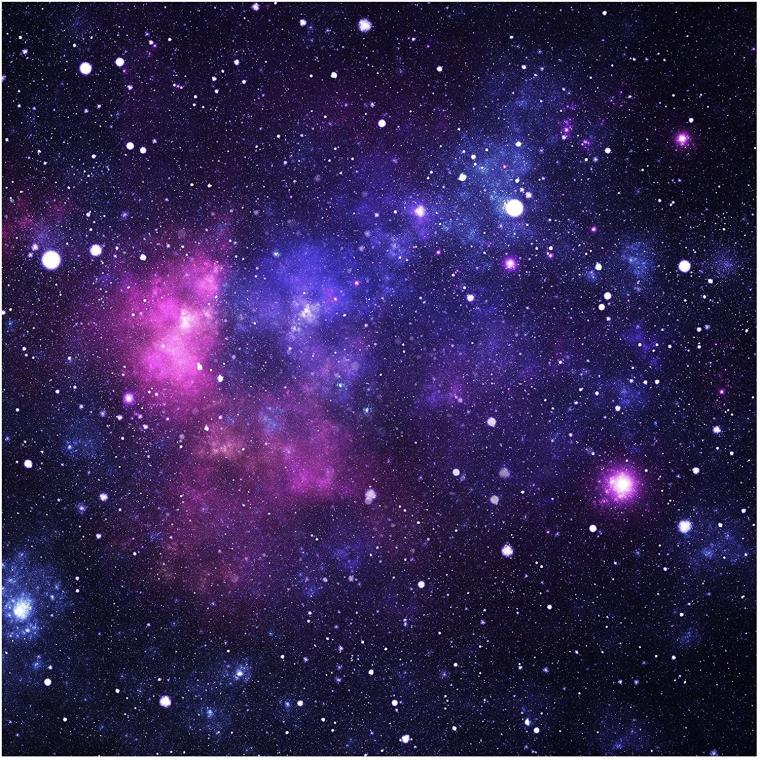
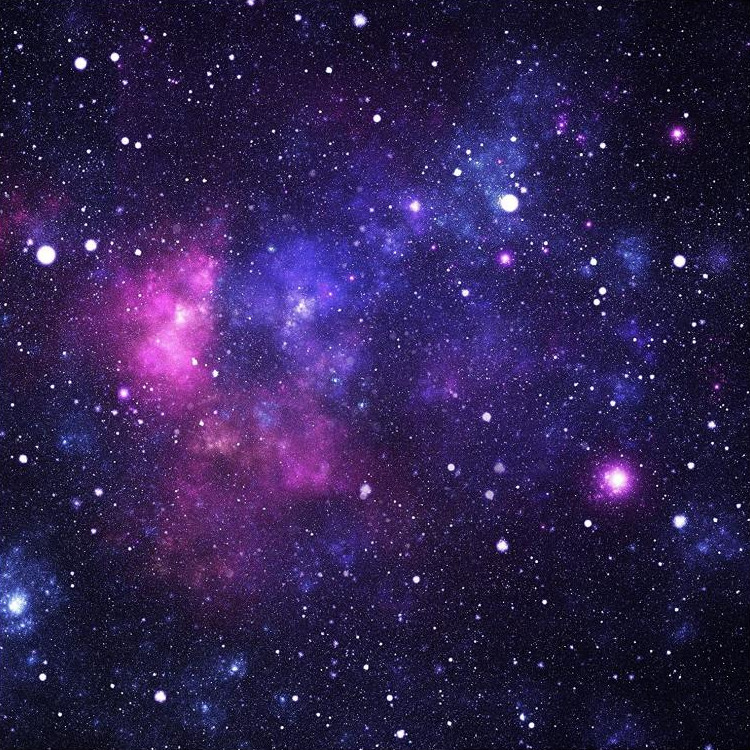
fix background img

Changed region(s): [[0.0, 0.0, 1.0, 1.0]]

diff --git a/styles/style.css b/styles/style.css
@@ -14,7 +14,7 @@ body {
     background-image: url(../img/background.jpg);
     background-attachment: fixed;
     background-position: center;
-    background-size: auto 110%;
+    background-size: cover;
     background-repeat: no-repeat;
 }
 
